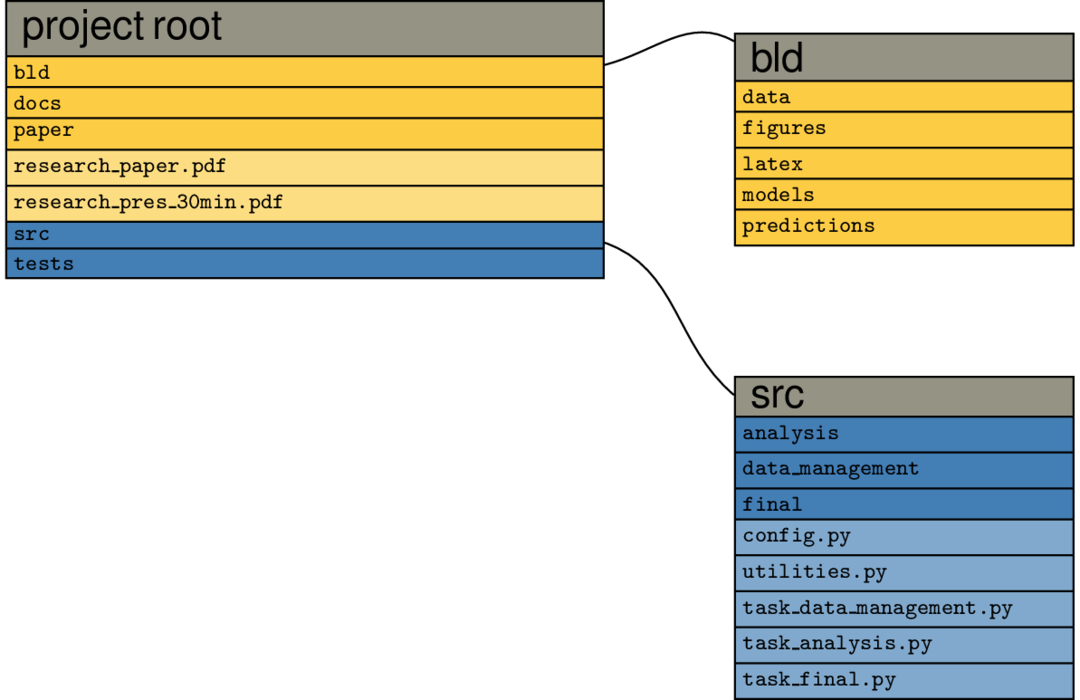
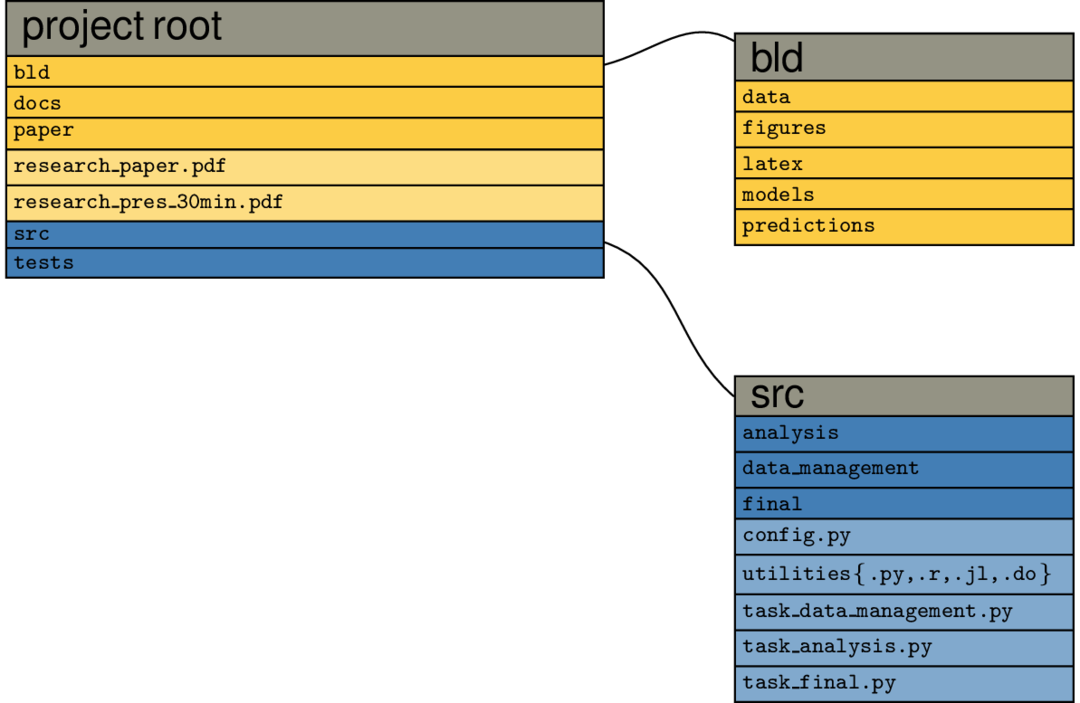
Update docs

diff --git a/docs/scripts/task_create_visualization.py b/docs/scripts/task_create_visualization.py
@@ -1,0 +1,44 @@
+import shutil
+import subprocess
+import sys
+import time
+from pathlib import Path
+
+import pytask
+
+SRC = Path(__file__).parent.resolve()  # root/docs/scripts
+FIGURES = SRC.parent.resolve().joinpath("source").joinpath("figures").resolve()
+sys.path.append(str(SRC))
+
+from visualization_functions import visualize_organisational_steps
+
+
+for case in ["model_steps_full", "model_steps_select", "steps_only_full"]:
+
+    kwargs = {
+        "case": case,
+        "produces": FIGURES / f"{case}.png",
+    }
+
+    @pytask.mark.task(id=case, kwargs=kwargs)
+    def task_visualize_organisational_steps(produces, case):
+        fig = visualize_organisational_steps(case)
+        fig.write_image(produces)
+
+
+for tex_file in ["root_bld_src", "src"]:
+
+    @pytask.mark.depends_on(SRC.joinpath("latex").joinpath(f"{tex_file}.tex"))
+    @pytask.mark.produces(SRC.joinpath(f"{tex_file}.png"))
+    @pytask.mark.task(id=tex_file)
+    def task_compile_latex(depends_on):
+        subprocess.Popen(["pdflatex", "--shell-escape", str(depends_on)])
+        time.sleep(1)
+        subprocess.Popen(["pdflatex", "--shell-escape", str(depends_on)])
+        time.sleep(1)
+
+    @pytask.mark.depends_on(SRC.joinpath(f"{tex_file}.png"))
+    @pytask.mark.produces(FIGURES.joinpath(f"{tex_file}.png"))
+    @pytask.mark.task(id=tex_file)
+    def task_copy_png_to_figures(depends_on, produces):
+        shutil.copyfile(str(depends_on), str(produces))

diff --git a/docs/scripts/latex/src.tex b/docs/scripts/latex/src.tex
@@ -44,9 +44,9 @@
             \nodepart{four}
                 \texttt{final}
             \nodepart{five}
-                \texttt{config.py}
+                \texttt{config\{.py,.r,.jl,.do\}}
             \nodepart{six}
-                \texttt{utilities.py}
+                \texttt{utilities\{.py,.r,.jl,.do\}}
             \nodepart{seven}
                 \texttt{task\_data\_management.py}
             \nodepart{eight}
@@ -76,7 +76,7 @@
             \nodepart{two}
                 \texttt{\_\_init.py\_\_}
             \nodepart{three}
-                \texttt{clean\_data.py}
+                \texttt{clean\_data\{.py,.r,.jl,.do\}}
             \nodepart{four}
                 \texttt{data\_info.yaml}
         };
@@ -102,9 +102,9 @@
             \nodepart{two}
                 \texttt{\_\_init.py\_\_}
             \nodepart{three}
-                \texttt{model.py}
+                \texttt{model\{.py,.r,.jl,.do\}}
             \nodepart{four}
-                \texttt{predict.py}
+                \texttt{predict\{.py,.r,.jl,.do\}}
         };
 
         \node (6) [
@@ -127,7 +127,7 @@
             \nodepart{two}
                 \texttt{\_\_init.py\_\_}
             \nodepart{three}
-                \texttt{plot.py}
+                \texttt{plot\{.py,.r,.jl,.do\}}
         };
 
         \draw[-, out=20, in=165] (3) to (4);

diff --git a/docs/source/conf.py b/docs/source/conf.py
@@ -46,7 +46,6 @@ extensions = [
     "nbsphinx",
     "sphinxcontrib.bibtex",
     "sphinx_panels",
-    "autoapi.extension",
 ]
 
 autoapi_dirs = ["../../hooks"]
@@ -74,13 +73,6 @@ autodoc_mock_imports = [
     "chaospy",
 ]
 
-extlinks = {
-    "ghuser": ("https://github.com/%s", "@"),
-    "gh": (
-        "https://github.com/OpenSourceEconomics/econ-project-templates/pulls/%s",
-        "#",
-    ),
-}
 
 intersphinx_mapping = {
     "numpy": ("https://docs.scipy.org/doc/numpy", None),

diff --git a/docs/scripts/latex/root_bld_src.tex b/docs/scripts/latex/root_bld_src.tex
@@ -115,7 +115,7 @@
             \nodepart{five}
                 \texttt{config.py}
             \nodepart{six}
-                \texttt{utilities.py}
+                \texttt{utilities\{.py,.r,.jl,.do\}}
             \nodepart{seven}
                 \texttt{task\_data\_management.py}
             \nodepart{eight}

diff --git a/docs/source/getting_started/hooks.rst b/docs/source/getting_started/hooks.rst
@@ -4,7 +4,8 @@ Pre-Commit Hooks
 ****************
 
 
-.. comment:: Information that one needs to run them - pre-commit run
+..
+  comment:: Information that one needs to run them - pre-commit run
 
 
 Pre-commit hooks are checks and syntax formatters that run upon every commit. If one of
@@ -15,7 +16,8 @@ will be installed into your project:
 
 - `reorder-python-imports <https://github.com/asottile/reorder_python_imports>`_: Reorders your python imports according to PEP8 guidelines.
 - `check-yaml <https://github.com/pre-commit/pre-commit-hooks>`_: Checks whether all .yaml and .yml files wihtin your project are valid yaml files.
-   .. comment:: What makes it valid? General question: Does one need to know these details
+   ..
+     comment:: What makes it valid? General question: Does one need to know these details
 - `check-added-large-files <https://github.com/pre-commit/pre-commit-hooks>`_: Checks that all committed files do not exceed 100MB in size. This is the maximal file size allowed by Github.
 - `check-byte-order-marker <https://github.com/pre-commit/pre-commit-hooks>`_: Fails if file has a UTF-8 byte-order marker.
 - `check-json <https://github.com/pre-commit/pre-commit-hooks>`_: Checks whether all files that end with .json are indeed valid json files.
@@ -23,7 +25,8 @@ will be installed into your project:
 - `pretty-format-json <https://github.com/pre-commit/pre-commit-hooks>`_: Reformats your json files to be more readable.
 - `trailing-whitespace <https://github.com/pre-commit/pre-commit-hooks>`_: Removes trailing whitespaces in all your text files.
 - `black <https://github.com/ambv/black>`_: Runs the python code formatter black on all your comitted python files.
-   .. comment:: What does that mean?
+   ..
+     comment:: What does that mean?
 - `blacken-docs <https://github.com/asottile/blacken-docs>`_: Formats python code (according to black's formatting style) that occurs within documentation files.
 
 If you additionally opt for intrusive pre-commit hooks, then python syntax linter
@@ -44,5 +47,6 @@ For more advanced usages of pre-commit please consult its `website
 <https://github.com/pre-commit/pre-commit-hooks>`_.
 
 
-.. comment:: (git commit) When would it make sense to ignore raised errors?
+..
+  comment:: (git commit) When would it make sense to ignore raised errors?
 

diff --git a/docs/source/getting_started/environments.rst b/docs/source/getting_started/environments.rst
@@ -31,7 +31,8 @@ To activate it, execute:
 
     $ conda activate <env_name>
 
-.. comment:: <env_name> , evironment in project folder
+..
+  comment:: <env_name> , evironment in project folder
 
 Repeat this step every time you want to run your project from a new terminal window.
 
@@ -47,7 +48,8 @@ or pip directly:
 For updating conda all packages, replace ``[package]`` by ``--all``.
 
 
-.. comment:: I would leave that part out, here one does not know yet what kind of package one could install
+..
+  comment:: I would leave that part out, here one does not know yet what kind of package one could install
 
 
 Installing additional packages
@@ -61,7 +63,8 @@ To list installed packages, type
 
 If you want to add a package to your environment, run
 
-.. comment:: where can I find the options for packages I would like to install?
+..
+  comment:: where can I find the options for packages I would like to install?
 
 .. code:: console
 
@@ -89,7 +92,8 @@ a project with multiple collaborators. Just make sure your environment is activa
 run the following in the project's root directory:
 
 
-.. comment:: if not update, how do <i change? Just manually add/delete something?>
+..
+  comment:: if not update, how do <i change? Just manually add/delete something?>
 
 
 .. code:: console
@@ -100,7 +104,8 @@ After exporting, manually delete the last line in the environment file, as it is
 specific.
 
 
-.. comment:: what is this last line? Dont want to delete the wrong things..
+..
+  comment:: what is this last line? Dont want to delete the wrong things..
 
 
 Setting up a new environment
@@ -115,7 +120,8 @@ If you want to create a clean environment, execute:
 For setting up an environment from a specification file (like environment.yml), type:
 
 
-.. comment:: I thought setting it up from environment.yml would require only to activate
+..
+  comment:: I thought setting it up from environment.yml would require only to activate
 it? When to activate only, when to create + activate?
 
 
@@ -124,7 +130,8 @@ it? When to activate only, when to create + activate?
     $ conda create --name <myenv> -f <filename>
 
 
-.. comment:: filename? What file?
+..
+  comment:: filename? What file?
 
 
 

diff --git a/docs/source/languages/common/pytask.rst b/docs/source/languages/common/pytask.rst
@@ -15,14 +15,15 @@ present, there are additional plugins to run `R scripts
 <https://github.com/pytask-dev/pytask-stata>`_, and to compile `documents via LaTeX
 <https://github.com/pytask-dev/pytask-latex>`_.
 
-We will have more to say about the directory structure in the :ref:`pyorganisation`
+We will have more to say about the directory structure in the :ref:`directory_structure`
 section. For now, we note that a step towards achieving the goal of clearly separating
 inputs and outputs is that we specify a separate build directory. All output files go
 there (including intermediate output), it is never kept under version control, and it
 can be safely removed -- everything in it will be reconstructed automatically the next
 time you run `pytask`.
 
-.. comment:: ..never kept under version control.., what does that sentence mean?
+..
+  comment:: ..never kept under version control.., what does that sentence mean?
 
 Pytask Overview
 ---------------
@@ -35,12 +36,14 @@ From a high-level perspective, pytask works in the following way:
     * It stops when it detects a circular dependency or ambiguous ways to build a
       target.
 
-       .. comment:: what would such an ambiguous way be? What is not allowed?
+       ..
+         comment:: what would such an ambiguous way be? What is not allowed?
 
     * Both are major advantages over a *master-script*, let alone doing the dependency
       tracking in your mind.
 
-       .. comment:: again, master-script?
+       ..
+         comment:: again, master-script?
 
 #.  pytask decides which tasks need to be executed and performs the required actions.
 
@@ -51,7 +54,8 @@ We have just touched upon the tip of the iceberg here; pytask has many more good
 offer. Its `documentation <https://pytask-dev.readthedocs.io>`_ is an excellent source.
 
 
-.. comment::
+..
+  comment::
 
     I would like to see an introduction on how to start with using pytask
     - install pytask: pip/conda

diff --git a/docs/source/faq.rst b/docs/source/faq.rst
@@ -1,3 +1,5 @@
+.. _faq:
+
 FAQ
 ===
 
@@ -127,10 +129,14 @@ Then type:
 
   $ code ~/.cookiecutter_replay/econ-project-templates-0.5.1.json
 
-.. comment:: Do I type this no matter what the error message says?
+..
+  comment:: Do I type this no matter what the error message says?
 
 If you are not using VS Code as your editor of choice, adjust the line accordingly.
-.. comment:: How do I adjust?
+
+..
+  comment:: How do I adjust?
+
 This command should open your editor and show you a json file containing your answers to
 the previously filled out dialogue. You can fix your faulty settings in this file. If
 you have spaces or special characters in your path, you need to adjust your path.
@@ -172,9 +178,9 @@ likely cause is that your path is not set correctly yet. You may check that by t
 you need is not included, you can adjust it as detailed above (:ref:`Windows
 <path_windows>`, :ref:`Mac/Linux <path_mac>`).
 
-If the name of your programme is not listed among the possibilities above, please `open
-an issue on Github
-<https://github.com/OpenSourceEconomics/econ-project-templates/issues>`_
+If the name of your programme is not listed among the possibilities above, please file
+an issue <https://github.com/OpenSourceEconomics/econ-project-templates/issues>`_ on
+GitHub.
 
 
 .. _stata_failure_check_erase_log_file:

diff --git a/docs/source/languages/common/workflow.rst b/docs/source/languages/common/workflow.rst
@@ -3,7 +3,8 @@ A naive way to ensure reproducibility is to have a *master-script* (do-file, m-f
 setup would be to have code for each step of the analysis and a loop over both
 categorical variables within each step:
 
-.. comment:: What is a master-script?
+..
+  comment:: What is a master-script?
 
 .. figure:: ../../figures/steps_only_full.png
    :width: 35em
@@ -12,7 +13,8 @@ You will still need to manually keep track of whether you need to run a particul
 after making changes, though. Or you run everything at once, all the time.
 Alternatively, you may have code that runs one step after the other for each variable:
 
-.. comment:: How do I manually keep track?
+..
+  comment:: How do I manually keep track?
 
 .. figure:: ../../figures/model_steps_full.png
    :width: 35em

diff --git a/docs/source/languages/common/design_rationale.rst b/docs/source/languages/common/design_rationale.rst
@@ -7,7 +7,8 @@ The design of the project templates is guided by the following main thoughts:
    copy & paste step at some point down the road. At best, this leads to errors; at
    worst, to misinterpreting the results.
 
-   .. comment:: What is the difference between re-use code and copy-paste?
+   ..
+     comment:: What is the difference between re-use code and copy-paste?
 
 #. **Be as language-agnostic as possible:** Make it easy to use the best tool for a
    particular task and to mix tools in a project.

diff --git a/docs/source/languages/R/index.rst b/docs/source/languages/R/index.rst
@@ -59,5 +59,6 @@ Directory Structure
 The example project has not been implemented in R yet. To get some grasp of the
 directory structure, view the Python :ref:`directory_structure_python`
 
-.. comment:: .. include:: ../common/directory_structure.rst
+..
+  comment:: .. include:: ../common/directory_structure.rst
 
